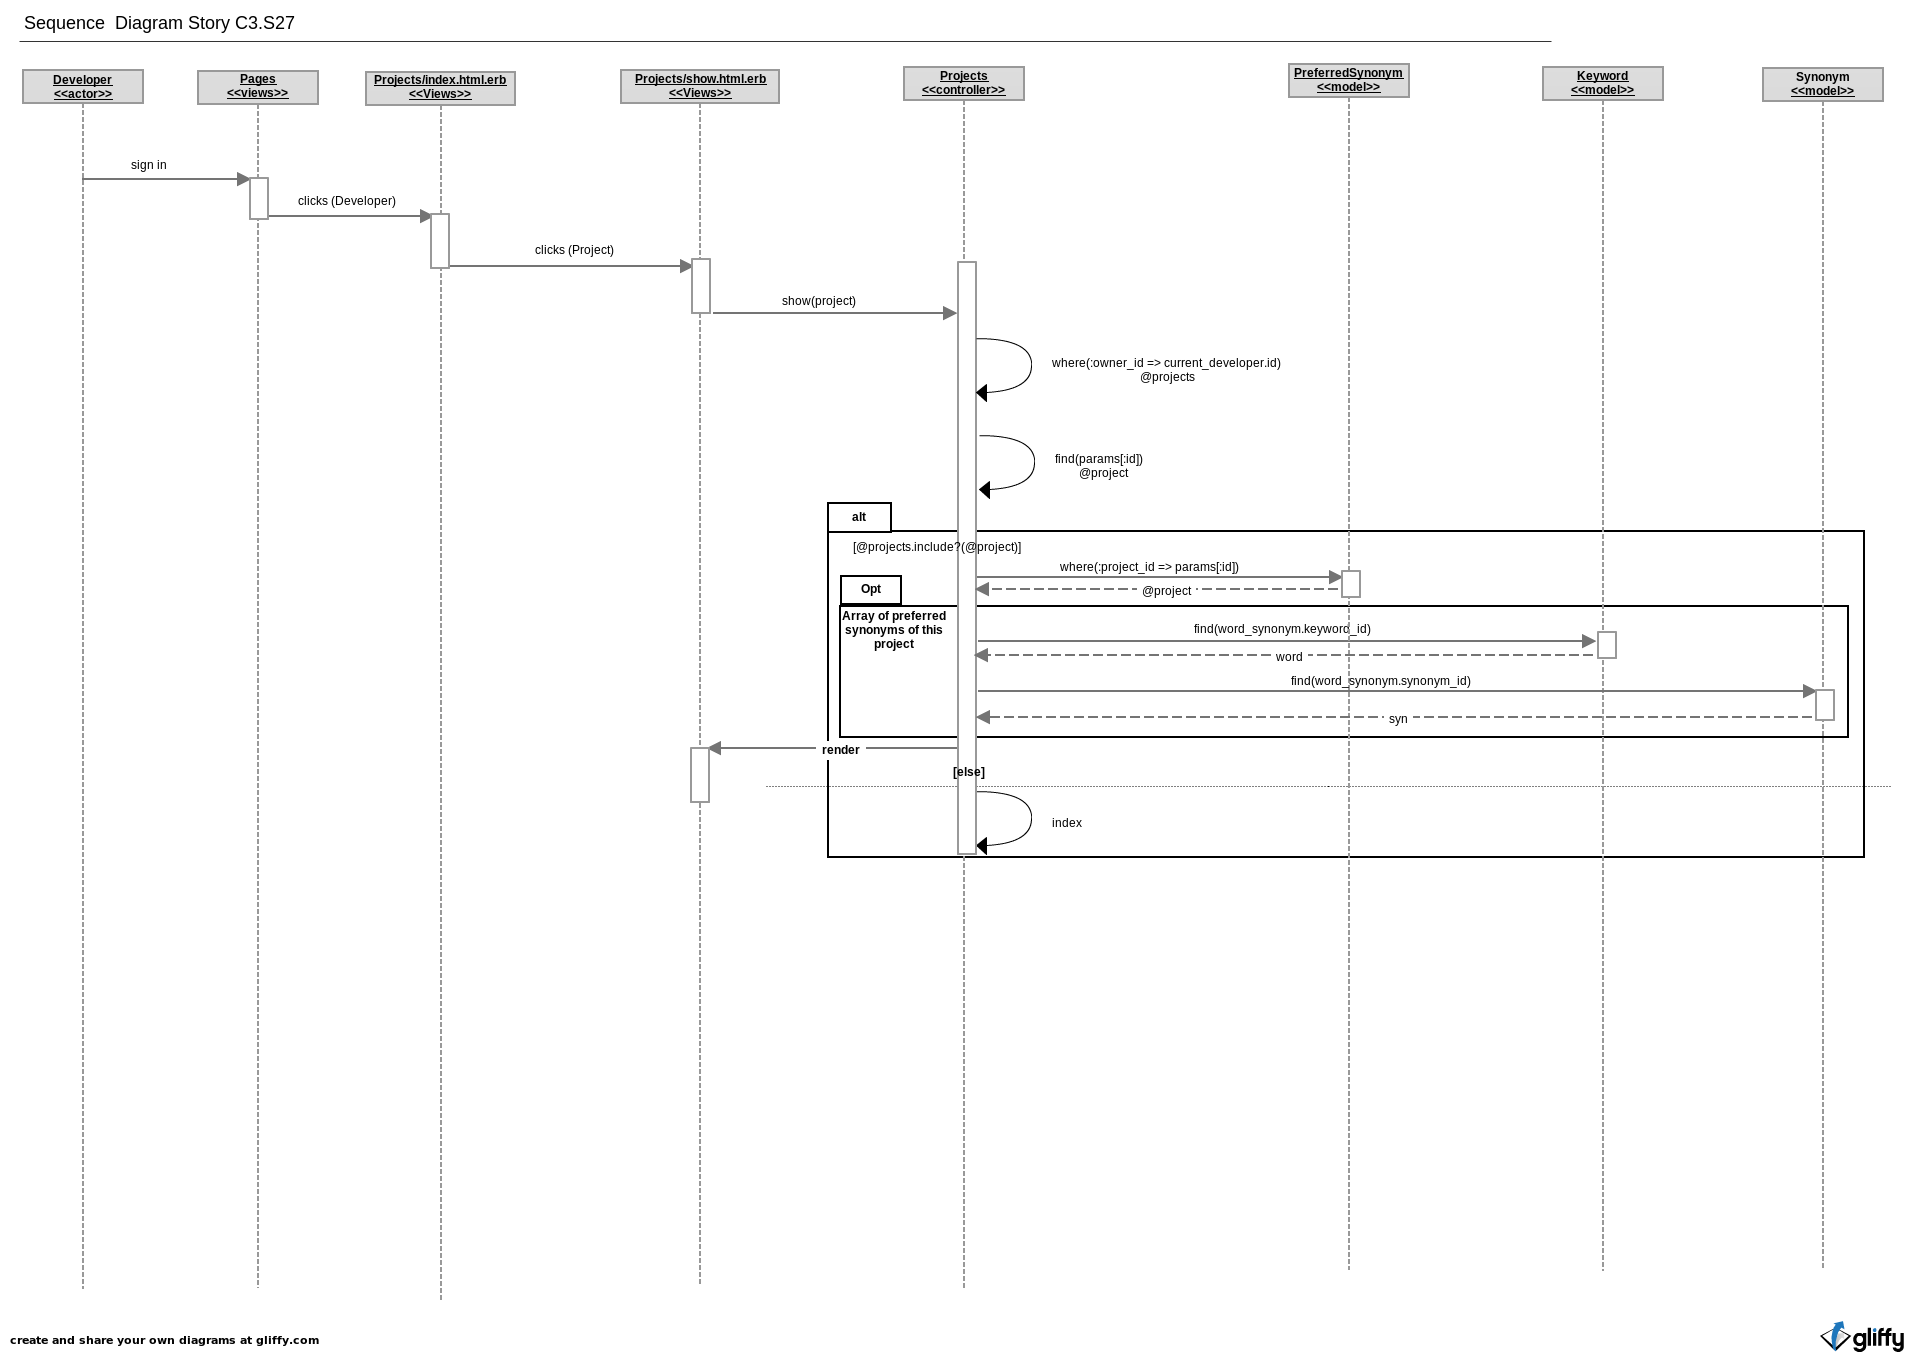
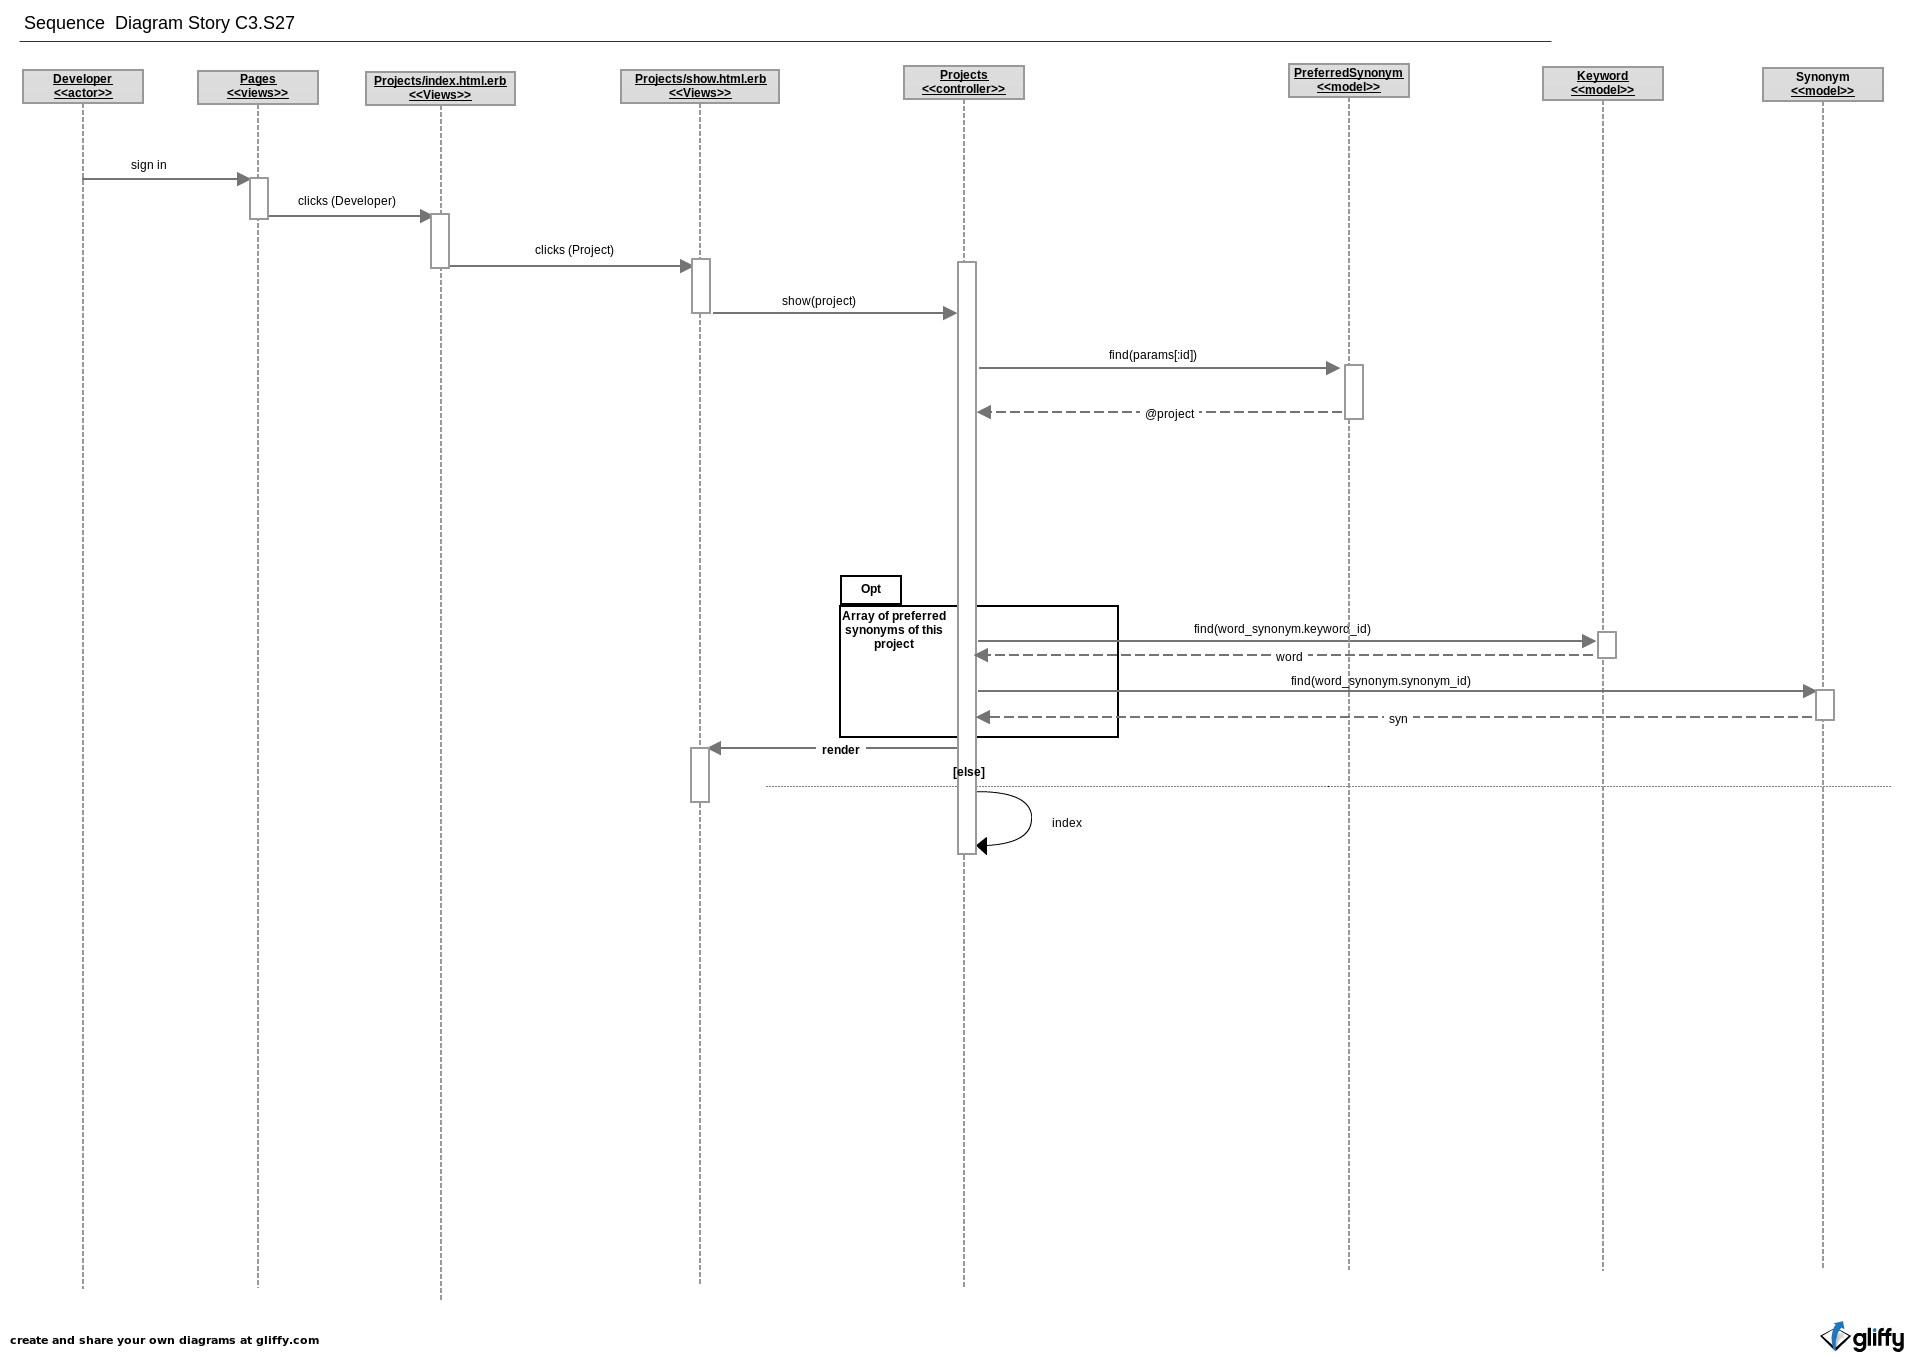
[Issue #209][WIP] Fixed UML

diff --git a/arability/app/controllers/projects_controller.rb b/arability/app/controllers/projects_controller.rb
@@ -207,21 +207,15 @@ class ProjectsController < BackendController
   # Failure:
   #   None.
 def show
-  @projects = Project.where(owner_id: current_developer.id)
   @project = Project.find(params[:id])
-  if @projects.include?(@project)
-    @words = []
-    @synonyms = []
-    @words_synonyms = PreferedSynonym.where(project_id: params[:id])
-    @words_synonyms.each do |word_synonym|
-      word = Keyword.find(word_synonym.keyword_id)
-      syn = Synonym.find(word_synonym.synonym_id)
-      @words.push(word)
-      @synonyms.push(syn)
-    end
-  else
-    redirect_to action: "index"
-    developer_unauthorized
+  @words = []
+  @synonyms = []
+  @words_synonyms = PreferedSynonym.where(project_id: params[:id])
+  @words_synonyms.each do |word_synonym|
+    word = Keyword.find(word_synonym.keyword_id)
+    syn = Synonym.find(word_synonym.synonym_id)
+    @words.push(word)
+    @synonyms.push(syn)
   end
 end
 
